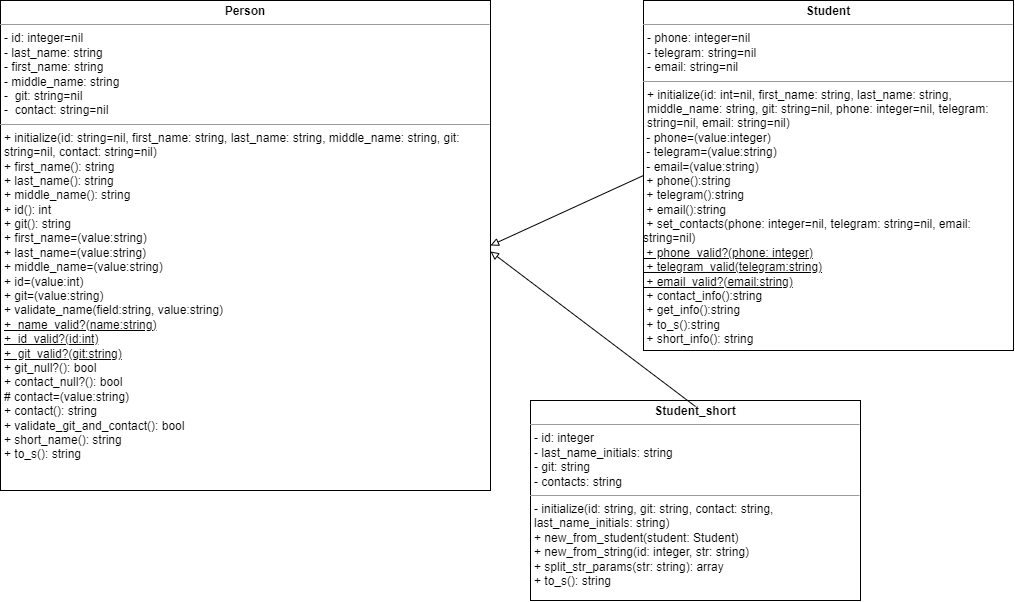
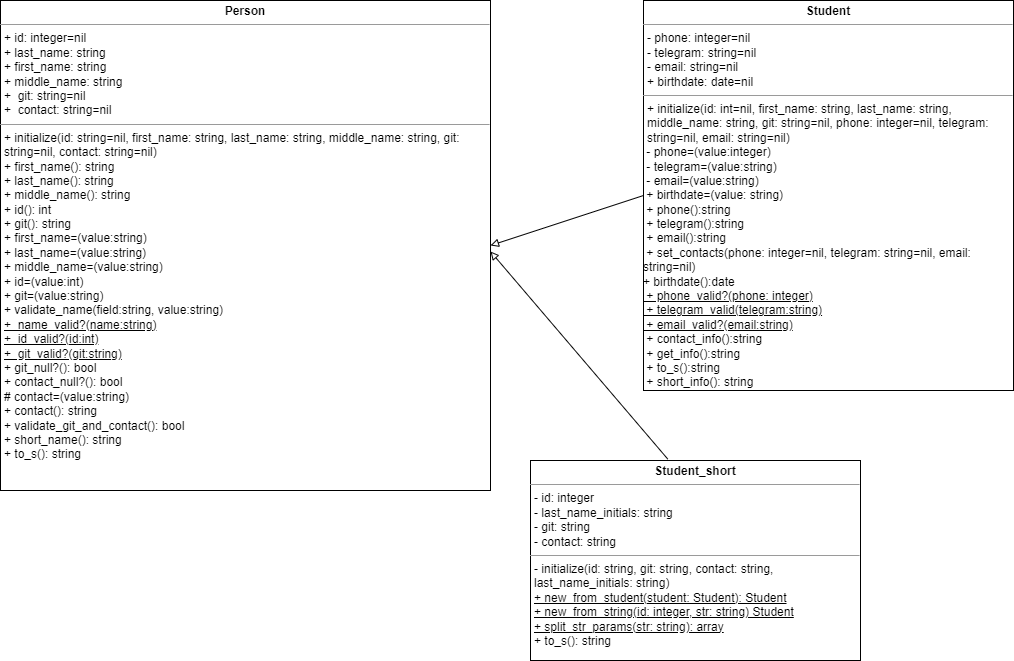
LR3.4 - BinarySortedTree for sort on Student's birthdate & fix diagram
- Добавил двоичное дерево для сортировки по дате рождения Student'a
- дополнил max_by с выборкой одного и более элементов
- Исправил и дополнил новым полем birtdate диаграмму классов

diff --git a/Student/main.rb b/Student/main.rb
@@ -2,7 +2,8 @@
 require_relative 'student'
 require_relative 'person'
 require_relative 'student_short'
-#Создаем несколько экземпляров класса с разными комбинациями необязательных полей
+require_relative 'binary_tree'
+# Создаем несколько экземпляров класса с разными комбинациями необязательных полей
 student_example = Student.new(
 	id: 1,
 	last_name: "Петров",
@@ -10,44 +11,60 @@ student_example = Student.new(
 	middle_name: "Петрович", 
 	phone: 12345678901,
 	telegram: "@exmpltg",
-	# email: "petr@example.com",
-	git: "github.com/example"
-	)
+	git: "github.com/example",
+	birthdate: "1998/07/23"
+)
 student_me = Student.new(
 	id: 2,
 	last_name: "Дука",
 	first_name: "Виталий",
 	middle_name: "Андреевич", 
 	email: "twinknezz@gmail.com",
-	git: "github.com/sdnezz"
-	)
+	git: "github.com/sdnezz",
+	birthdate: "1995/06/15"
+)
 student_valya = Student.new(
 	id: 3,
 	last_name: "Кислый",
 	first_name: "Валентин",
 	middle_name: "Кирилыч", 
-	phone: 88005353531 ,
-	telegram: "@kislayavalya"
-	)
-#Вызываем метод вывода информации об объекте класса на экран
+	phone: 88005353531,
+	telegram: "@kislayavalya",
+	birthdate: "1992/12/30"
+)
+
+# Вызываем метод вывода информации об объекте класса на экран
 puts student_example
-#Изменяем контакты, только обращаясь к методу объекта класса для них
+# Изменяем контакты, только обращаясь к методу объекта класса для них
 student_example.set_contacts(phone: 89998887766, email: "new_email@example.com")
 puts student_example
-#Проверяем наличие гита и контактов
+# Проверяем наличие гита и контактов
 student_example.validate_git_and_contact
 
-#Выводим гит,инициалы и контакты через отдельные методы объекта класса
-
+# Выводим гит, инициалы и контакты через отдельные методы объекта класса
 puts student_example.short_name
 puts student_example.short_info
 puts student_example.contact_info
 
-#Выводим краткую информацию через метод объекта класса
+# Выводим краткую информацию через метод объекта класса
 puts student_example.get_info
 
-#Создаем объект класса с краткой информацией, передавая туда уже созданный объект другого класса
+# Создаем объект класса с краткой информацией, передавая туда уже созданный объект другого класса
 student_example_short = StudentShort.new_from_student(student_example)
 puts student_example_short
 student_example_short_2 = StudentShort.new_from_string(id: 2, str: "Иванов И.И.; github.com/ivan; ivan@example.com")
 puts student_example_short_2
+
+# Создаем бинарное сортированное дерево
+tree = BinarySortedTree.new
+tree.add(student_example)
+tree.add(student_me)
+tree.add(student_valya)
+
+# Итерация по дереву
+puts "Студенты в порядке дат рождения:"
+tree.each { |student| puts student.to_s }
+
+# Поиск по дате рождения
+found_student = tree.find_by_birthdate("1992-12-30")
+puts "Найденный студент: #{found_student}" if found_student

diff --git a/Collections/blocks_methods/array_processing.rb b/Collections/blocks_methods/array_processing.rb
@@ -15,12 +15,13 @@ class ArrayProcessing
 
   private :array=
 
-  # Реализация each_slice
+  # Реализация each_slice 
   def each_slice(n)
+    #Enumerator создается для метода each_slice по символу если не передан блок { }
     return enum_for(:each_slice, n) unless block_given?
     slice = []
     @array.each do |element|
-      slice << element
+      slice << element #в конец [1, element]
       if slice.size == n
         yield slice
         slice = []
@@ -30,24 +31,47 @@ class ArrayProcessing
   end
 
   # Реализация max_by
-  def max_by
-    return enum_for(:max_by) unless block_given?
-    max_element = nil
-    max_value = nil
+  def max_by(n = 1)
+    return enum_for(:max_by, n) unless block_given?
+
+    max_elements = [] # Массив для хранения максимальных элементов
+    max_values = []   # Массив для хранения максимальных значений блока
+
     @array.each do |element|
       value = yield(element)
-      if max_element.nil? || value > max_value
-        max_element = element
-        max_value = value
+
+      if max_elements.size < n
+        # Если в массиве еще недостаточно элементов
+        max_elements << element
+        max_values << value
+      else
+        # Если массив уже полон, ищем минимальное значение среди сохраненных
+        min_value = max_values.min
+        min_index = max_values.index(min_value)
+
+        # Заменяем минимальный элемент, если текущий больше
+        if value > min_value
+          max_elements[min_index] = element
+          max_values[min_index] = value
+        end
       end
     end
-    max_element
+    # Если n == 1, возвращаем единственный элемент, иначе массив
+    if n == 1
+      max_elements.first
+    else
+      #Объединение в массив пар из массивов значения и обработанного блоком значения по индексу
+      max_elements.zip(max_values)
+                  .sort_by { |_, value| -value }
+                  .map { |element, _| element }
+    end
   end
 
   # Реализация sort_by
   def sort_by
     return enum_for(:sort_by) unless block_given?
     @array.map { |element| [yield(element), element] }
+          #Сравнение значения элементов из каждой пары возвращение самого элемента
           .sort { |a, b| a[0] <=> b[0] }
           .map { |pair| pair[1] }
   end

diff --git a/Collections/blocks_methods/enumerable_methods.rb b/Collections/blocks_methods/enumerable_methods.rb
@@ -8,13 +8,14 @@ def find_missing_numbers(arr)
   (arr.min..arr.max).to_a - arr
 end
 
-# 32 Найти количество локальных максимумов
+# 32 Найти количество локальных максимумов (соседи меньше)
 def count_local_maximum(arr)
   arr.each_cons(3).count { |a, b, c| b > a && b > c }
 end
 
 # 44 Проверить чередование целых и вещественных чисел
 def alternating_integer_float?(arr)
+  #Переменная ожидаемого типа (int / float)
   expect_integer = arr.first.is_a?(Integer)
   
   arr.all? do |element|
@@ -25,15 +26,16 @@ def alternating_integer_float?(arr)
   end
 end
 
-# 5. Среднее арифметическое непростых элементов, превышающих среднее простых
+# Предикат простоты числа-элемента
 def prime?(num)
   return false if num <= 1
+  #Диапазон с 2 т.к. 1 не простое
   (2..Math.sqrt(num).to_i).none? { |i| num % i == 0 }
 end
-
+# 5. Среднее арифметическое непростых элементов, превышающих среднее простых
 def avg_non_prime_greater_than_avg_prime(arr)
   primes, non_primes = arr.partition { |num| prime?(num) }
-  avg_prime = primes.sum.to_f / primes.size if primes.size > 0
+  avg_prime = primes.sum.to_f / primes.size if primes.size > 0 #Иначе avg_prime = nil
   non_prime_above_avg = non_primes.select { |num| num > avg_prime } if avg_prime
   non_prime_above_avg&.sum.to_f / non_prime_above_avg&.size if non_prime_above_avg && non_prime_above_avg.size > 0
 end

diff --git a/Student/binary_tree.rb b/Student/binary_tree.rb
@@ -1,0 +1,69 @@
+require_relative 'tree_node'
+require 'date'
+
+class BinarySortedTree
+  include Enumerable
+
+  attr_reader :root
+
+  def initialize
+    @root = nil
+  end
+
+  # Добавление студента в дерево
+  def add(student)
+    if @root.nil?
+      @root = TreeNode.new(student)
+    else
+      insert(@root, student)
+    end
+  end
+
+  # Метод вставки студента в дерево
+  private def insert(node, student)
+    if student.birthdate < node.student.birthdate
+      if node.left.nil?
+        node.left = TreeNode.new(student)
+      else
+        insert(node.left, student)
+      end
+    else
+      if node.right.nil?
+        node.right = TreeNode.new(student)
+      else
+        insert(node.right, student)
+      end
+    end
+  end
+
+  # Реализация метода each для интерфейса Enumerable
+  def each(&block)
+    traverse_in_order(@root, &block)
+  end
+
+  # Обход дерева в порядке возрастания (in-order traversal)
+  private def traverse_in_order(node, &block)
+    return if node.nil?
+
+    traverse_in_order(node.left, &block)
+    block.call(node.student)
+    traverse_in_order(node.right, &block)
+  end
+
+  # Поиск студента по дате рождения
+  def find_by_birthdate(birthdate)
+    find(@root, Date.parse(birthdate))
+  end
+
+  private def find(node, birthdate)
+    return nil if node.nil?
+
+    if node.student.birthdate == birthdate
+      node.student
+    elsif birthdate < node.student.birthdate
+      find(node.left, birthdate)
+    else
+      find(node.right, birthdate)
+    end
+  end
+end

diff --git a/Student/student.rb b/Student/student.rb
@@ -1,9 +1,11 @@
 require_relative 'person'
+require 'date'
 class Student < Person
-  attr_reader :phone, :telegram, :email
+  attr_reader :phone, :telegram, :email, :birthdate
   # Конструктор для студента
-  def initialize(id: nil, first_name:, last_name:, middle_name:, git: nil, phone: nil, telegram: nil, email: nil)
+  def initialize(id: nil, first_name:, last_name:, middle_name:, git: nil, phone: nil, telegram: nil, email: nil, birthdate: nil)
     set_contacts(phone: phone, telegram: telegram, email: email)
+    self.birthdate = birthdate if birthdate
     super(first_name: first_name, last_name: last_name, middle_name: middle_name, git: git, id: id, contact: contact_info)
   end
 
@@ -32,6 +34,10 @@ class Student < Person
 	    raise ArgumentError, "Неверный адрес электронной почты: #{id} #{last_name} #{first_name}"
 	  end
 	end
+
+  def birthdate=(birthdate)
+    @birthdate = Date.parse(birthdate)
+  end
 
   # Метод для установки контактов через сеттеры
   def set_contacts(phone: nil, telegram: nil, email: nil)

diff --git a/Student/tree_node.rb b/Student/tree_node.rb
@@ -1,0 +1,22 @@
+require_relative 'student'
+class TreeNode
+  attr_accessor :student, :left, :right
+
+  def initialize(student)
+    @student = student
+    @left = nil
+    @right = nil
+  end
+
+  # Реализация метода each для обхода дерева
+  def each(&block)
+    yield self
+    left.each(&block) if left
+    right.each(&block) if right
+  end
+
+  # Метод для красивого вывода информации об узле
+  def to_s
+    student.to_s
+  end
+end

diff --git a/Collections/array_tests/tests_array_processing.rb b/Collections/array_tests/tests_array_processing.rb
@@ -18,10 +18,10 @@ class ArrayProcessingTest < Minitest::Test
   end
 
   def test_max_by
-    max = @processor.max_by { |x| -x }
-    assert_equal 1, max
+    max = @processor.max_by(2) { |x| -x }
+    assert_equal [1, 2], max
   end
-  
+
   def test_sort_by
     sorted = @processor.sort_by { |x| -x }
     assert_equal [5, 4, 3, 2, 1], sorted
